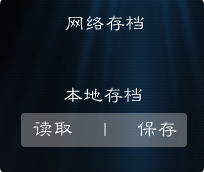
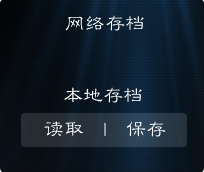
存档界面完成

Changed region(s): [[0.0882, 0.6395, 0.9412, 0.8721], [0.9706, 0.0, 1.0, 0.0291], [0.0, 0.0, 0.0294, 0.0291]]

diff --git a/Game/Data/Scripts/source/Scene_Map.rb b/Game/Data/Scripts/source/Scene_Map.rb
@@ -28,6 +28,8 @@ class Scene_Map < Scene_Base
     @menu_sprite_act.z = 1001
     @menu_calling = false
     @menu_called_inedx = 0
+    @now_set = [nil]*5
+    @menu_rem = [nil]*5
   end
   #--------------------------------------------------------------------------
   # ● 执行进入场景时的渐变
@@ -302,6 +304,11 @@ class Scene_Map < Scene_Base
   
   def call_save_scene
     create_menu(MENU_SAV)
+    if ($WebLogin_user rescue nil) == nil
+      @menu_sprite_sin.bitmap.blt(MENU_SAV_POS[0][0],MENU_SAV_POS[0][1],Bitmap.new(MENU_SAV_LOG),Rect.new(0,0,166,34))
+    else
+      @menu_sprite_sin.bitmap.blt(MENU_SAV_POS[0][0],MENU_SAV_POS[0][1],Bitmap.new(MENU_SAV_SL),Rect.new(0,0,166,34))
+    end
     @menu_called_inedx = 4
   end
   
@@ -346,16 +353,17 @@ class Scene_Map < Scene_Base
     when 3
       update_menu_voi
     when 4
+      update_menu_sav
     when 5
     end
   end
   
   def update_menu_gra
-    now_set = [$syseting[:ctrl_screen],$syseting[:show_maparea],$syseting[:show_animation],$syseting[:screen_size]]
-    if @menu_rem != now_set
-      @menu_rem = now_set.clone
+    @now_set[1] = [$syseting[:ctrl_screen],$syseting[:show_maparea],$syseting[:show_animation],$syseting[:screen_size]]
+    if @menu_rem[1] != @now_set[1]
+      @menu_rem[1] = @now_set[1].clone
       @menu_sprite_act.bitmap.clear
-      4.times{|i| @menu_sprite_act.bitmap.blt(*MENU_GRA_POS[i],Bitmap.new(MENU_SEL),RECT_SEL) if @menu_rem[i]}
+      4.times{|i| @menu_sprite_act.bitmap.blt(*MENU_GRA_POS[i],Bitmap.new(MENU_SEL),RECT_SEL) if @menu_rem[1][i]}
     end
     if Mouse.click?(1)
       tpos = [Mouse.pos[0]-@menu_sprite_act.x,Mouse.pos[1]-@menu_sprite_act.y]
@@ -377,11 +385,11 @@ class Scene_Map < Scene_Base
   end
   
   def update_menu_voi
-    now_set = [$syseting[:bgm_value],$syseting[:se_value],$syseting[:voi_value]]
-    if @menu_rem != now_set
-      @menu_rem = now_set.clone
+    @now_set[2] = [$syseting[:bgm_value],$syseting[:se_value],$syseting[:voi_value]]
+    if @menu_rem[2] != @now_set[2]
+      @menu_rem[2] = @now_set[2].clone
       @menu_sprite_act.bitmap.clear
-      4.times{|i| @menu_sprite_act.bitmap.draw_text(*MENU_VOI_POS[i],60,40,@menu_rem[i].to_s+"%",2) if @menu_rem[i]}
+      4.times{|i| @menu_sprite_act.bitmap.draw_text(*MENU_VOI_POS[i],60,40,@menu_rem[2][i].to_s+"%",2) if @menu_rem[2][i]}
     end
     ms = Mouse.scroll
     if ms!=0
@@ -399,6 +407,109 @@ class Scene_Map < Scene_Base
           when 2
             $syseting[:voi_value]+=5*(ms>0 ? 1: -1)
             $syseting[:voi_value]=[[100,$syseting[:voi_value]].min,0].max
+          end
+        end
+      end
+    end
+  end
+  
+  def update_menu_sav
+    tpos = [Mouse.pos[0]-@menu_sprite_act.x,Mouse.pos[1]-@menu_sprite_act.y]
+    if ($WebLogin_user rescue nil) == nil
+      @now_set[3] = [tpos.inrect?(MENU_SAV_POS[0]),tpos.inrect?(MENU_SAV_POS[3]),tpos.inrect?(MENU_SAV_POS[4])]
+      if @menu_rem[3] != @now_set[3]
+        if @menu_rem[3]&&@menu_rem[3].size == 4
+          @menu_sprite_sin.bitmap.dispose
+          @menu_sprite_sin.bitmap = Bitmap.new(MENU_SAV)
+          @menu_sprite_sin.bitmap.blt(MENU_SAV_POS[0][0],MENU_SAV_POS[0][1],Bitmap.new(MENU_SAV_LOG),Rect.new(0,0,166,34))
+        end
+        @menu_rem[3] = @now_set[3].clone
+        @menu_sprite_act.bitmap.clear
+        3.times do |i|
+          case i
+          when 0
+            @menu_sprite_act.bitmap.blt(MENU_SAV_POS[0][0],MENU_SAV_POS[0][1],Bitmap.new(MENU_SAV_SEL[0]),Rect.new(0,0,MENU_SAV_POS[0][2],MENU_SAV_POS[0][3])) if @menu_rem[3][i]
+          when 1
+            @menu_sprite_act.bitmap.blt(MENU_SAV_POS[3][0],MENU_SAV_POS[3][1],Bitmap.new(MENU_SAV_SEL[1]),Rect.new(0,0,MENU_SAV_POS[3][2],MENU_SAV_POS[3][3])) if @menu_rem[3][i]
+          when 2
+            @menu_sprite_act.bitmap.blt(MENU_SAV_POS[4][0],MENU_SAV_POS[4][1],Bitmap.new(MENU_SAV_SEL[2]),Rect.new(0,0,MENU_SAV_POS[4][2],MENU_SAV_POS[4][3])) if @menu_rem[3][i]
+          end
+        end
+      end
+      iindex = @menu_rem[3].index(true)
+      if Mouse.click?(1) && iindex
+        case iindex
+        when 0
+          SceneManager.call(Scene_Load)
+        when 1
+          if DataManager.load_game(0)
+            fadeout_all
+            $game_system.on_after_load
+            SceneManager.goto(Scene_Map)
+          else
+            @spriteset.show_tips("读取档案失败.")
+          end
+        when 2
+          if DataManager.save_game(0)
+            @spriteset.show_tips("存档成功.")
+          else
+            @spriteset.show_tips("存档失败.")
+          end
+        end
+      end
+    else
+      @now_set[3] = [tpos.inrect?(MENU_SAV_POS[1]),tpos.inrect?(MENU_SAV_POS[2]),tpos.inrect?(MENU_SAV_POS[3]),tpos.inrect?(MENU_SAV_POS[4])]
+      if @menu_rem[3] != @now_set[3]
+        if @menu_rem[3]&&@menu_rem[3].size == 3
+          @menu_sprite_sin.bitmap.dispose
+          @menu_sprite_sin.bitmap = Bitmap.new(MENU_SAV)
+          @menu_sprite_sin.bitmap.blt(MENU_SAV_POS[0][0],MENU_SAV_POS[0][1],Bitmap.new(MENU_SAV_SL),Rect.new(0,0,166,34))
+        end
+        @menu_rem[3] = @now_set[3].clone
+        @menu_sprite_act.bitmap.clear
+        4.times do |i|
+          case i
+          when 0
+            @menu_sprite_act.bitmap.blt(MENU_SAV_POS[1][0],MENU_SAV_POS[1][1],Bitmap.new(MENU_SAV_SEL[1]),Rect.new(0,0,MENU_SAV_POS[1][2],MENU_SAV_POS[1][3])) if @menu_rem[3][i]
+          when 1
+            @menu_sprite_act.bitmap.blt(MENU_SAV_POS[2][0],MENU_SAV_POS[2][1],Bitmap.new(MENU_SAV_SEL[2]),Rect.new(0,0,MENU_SAV_POS[2][2],MENU_SAV_POS[2][3])) if @menu_rem[3][i]
+          when 2
+            @menu_sprite_act.bitmap.blt(MENU_SAV_POS[3][0],MENU_SAV_POS[3][1],Bitmap.new(MENU_SAV_SEL[1]),Rect.new(0,0,MENU_SAV_POS[3][2],MENU_SAV_POS[3][3])) if @menu_rem[3][i]
+          when 3
+            @menu_sprite_act.bitmap.blt(MENU_SAV_POS[4][0],MENU_SAV_POS[4][1],Bitmap.new(MENU_SAV_SEL[2]),Rect.new(0,0,MENU_SAV_POS[4][2],MENU_SAV_POS[4][3])) if @menu_rem[3][i]
+          end
+        end
+      end
+      iindex = @menu_rem[3].index(true)
+      if Mouse.click?(1) && iindex
+        case iindex
+        when 0
+          if DataManager.load_web_game(0)
+            fadeout_all
+            $game_system.on_after_load
+            SceneManager.goto(Scene_Map)
+          else
+            @spriteset.show_tips("读取档案失败.")
+          end
+        when 1
+          if DataManager.save_web_game(0)
+            @spriteset.show_tips("存档成功.")
+          else
+            @spriteset.show_tips("存档失败.")
+          end
+        when 2
+          if DataManager.load_game(0)
+            fadeout_all
+            $game_system.on_after_load
+            SceneManager.goto(Scene_Map)
+          else
+            @spriteset.show_tips("读取档案失败.")
+          end
+        when 3
+          if DataManager.save_game(0)
+            @spriteset.show_tips("存档成功.")
+          else
+            @spriteset.show_tips("存档失败.")
           end
         end
       end
@@ -505,7 +616,6 @@ class Scene_Map < Scene_Base
       if CInput.trigger?($vkey[:X]) || (!$map_battle && Mouse.down?(2))
         @menu_calling =!@menu_calling
         if @menu_calling
-          @menu_rem = nil
           change_skill
         else
           call_ret_scene

diff --git a/Game/Data/Scripts/source/Skill_data.rb b/Game/Data/Scripts/source/Skill_data.rb
@@ -31,7 +31,7 @@
     @hp_damage = 0
     @sp_damage = 0
     @ap_damage = 0
-    @buff = [["Catch.new",100]]
+    @buff = [[Catch,100]]
     @debuff = []
     @descr = "将一个友方单位或是能力低于自己的敌人吸上半空.\n向指定的目标格抛出造成伤害.\n施法距离:1-6"
   end
@@ -158,7 +158,7 @@ class Relive < Skill
     @hp_damage = 60
     @sp_damage = 0
     @ap_damage = 0
-    @buff = [["Ctrled.new",100]]
+    @buff = [[Ctrled,100]]
     @debuff = []
     @descr = "消耗1点行动力和100点生命力.\n复活并操控一具尸体为你作战.\n死尸在持续时间内不会死亡.\n死尸所受的伤害由施法者承担.\n持续2回合.\n施法距离:1-4."
   end
@@ -550,7 +550,7 @@ class AutoBang < Skill
   
   def set_extra
     @spec_effect = "if @cur_actor.ap>=@cur_actor.get_ap_for_atk;
-                      i.event.move_backward if i.event.passable?(i.x,i.y,BACK_DIR[i.event.direction]);
+                      i.event.move_backward if i.event.passable?(i.x,i.y,10-i.event.direction);
                       if $random_center.rand(100)<20;
                         i.die;
                         @splink.show_text(\"Bingo!\",i.event,BINGO_COLOR,30);
@@ -560,7 +560,7 @@ class AutoBang < Skill
                       end;
                       @cur_actor.cost_ap_for(1);
                     else;
-                      @cur_actor.event.move_backward if @cur_actor.event.passable?(@cur_actor.x,@cur_actor.y,BACK_DIR[i.event.direction]);
+                      @cur_actor.event.move_backward if @cur_actor.event.passable?(@cur_actor.x,@cur_actor.y,10-i.event.direction);
                       a=@cur_actor.phy_damage(100);
                       @splink.show_text(a[1],@cur_actor.event,HP_COST_COLOR,20) if a[0];
                     end;"
@@ -619,12 +619,12 @@ class AutoT < Skill
   
   def set_extra
     @spec_effect = "if @cur_actor.ap>=@cur_actor.get_ap_for_atk;
-                      i.event.move_backward if i.event.passable?(i.x,i.y,BACK_DIR[i.event.direction]);
+                      i.event.move_backward if i.event.passable?(i.x,i.y,10-i.event.direction);
                       a=i.phy_damage(100);
                       @splink.show_text(a[1],i.event,HP_COST_COLOR,20) if a[0];
                       @cur_actor.cost_ap_for(1);
                     elsif i!=@cur_actor;
-                      @cur_actor.event.move_backward if @cur_actor.event.passable?(@cur_actor.x,@cur_actor.y,BACK_DIR[i.event.direction]);
+                      @cur_actor.event.move_backward if @cur_actor.event.passable?(@cur_actor.x,@cur_actor.y,10-i.event.direction);
                       a=@cur_actor.phy_damage(100);
                       @splink.show_text(a[1],@cur_actor.event,HP_COST_COLOR,20) if a[0];
                     end;"
@@ -683,12 +683,12 @@ class AutoBigBang < Skill
   
   def set_extra
     @spec_effect = "if @cur_actor.ap>=@cur_actor.get_ap_for_atk;
-                      i.event.move_backward if i.event.passable?(i.x,i.y,BACK_DIR[i.event.direction]);
+                      i.event.move_backward if i.event.passable?(i.x,i.y,10-i.event.direction);
                       a=i.phy_damage(100);
                       @splink.show_text(a[1],i.event,HP_COST_COLOR,20) if a[0];
                       @cur_actor.cost_ap_for(1);
                     elsif i!=@cur_actor;
-                      @cur_actor.event.move_backward if @cur_actor.event.passable?(@cur_actor.x,@cur_actor.y,BACK_DIR[i.event.direction]);
+                      @cur_actor.event.move_backward if @cur_actor.event.passable?(@cur_actor.x,@cur_actor.y,10-i.event.direction);
                       a=@cur_actor.phy_damage(100);
                       @splink.show_text(a[1],@cur_actor.event,HP_COST_COLOR,20) if a[0];
                     end;"

diff --git a/Game/Data/Scripts/source/Fuc.rb b/Game/Data/Scripts/source/Fuc.rb
@@ -1,11 +1,11 @@
 module Fuc
 
   DIR_LIST =          [[0,8,2],[4],[6]]# 方向表，方便写
-  BACK_DIR =          {2=>8,4=>6,6=>4,8=>2}
   SP_OPA =            [255,100,150,200,100] # 透明度表
   UI_SKILL_POS =      [ [51,5],[92,27],[92,74],[51,97],[10,74],[10,27] ]
   MENU_GRA_POS =      [ [157,51],[157,89],[157,127],[157,165] ]
   MENU_VOI_POS =      [ [134,35],[134,67],[134,99] ]
+  MENU_SAV_POS =      [ [21,40,166,34],[21,40,83,34],[105,40,82,34],[21,113,83,34],[105,113,82,34] ]
   MOV_AREA_C =        [Color.new(0,100,255,255),Color.new(0,150,255,255)]
   WAY_AREA_C =        [Color.new(0,180,100,255),Color.new(100,200,50,255)]
   EFFECT_AREA_C =     [Color.new(255,255,50,255),Color.new(200,200,0,200)]
@@ -34,6 +34,9 @@
   MENU_SAV = "Graphics/System/save_scene.png"
   MENU_MES = "Graphics/System/mesg_scene.png"
   MENU_SEL = "Graphics/System/seled.png"
+  MENU_SAV_SEL = ["Graphics/System/save_sel1.png","Graphics/System/save_sel2.png","Graphics/System/save_sel3.png"]
+  MENU_SAV_LOG = "Graphics/System/login.png"
+  MENU_SAV_SL = "Graphics/System/sl.png"
   RECT_SEL = Rect.new(0,0,26,26)
   FAILD_ATTACK_TEXT = 
   [ "Miss",

diff --git a/Game/Data/Scripts/source/Map_Battle.rb b/Game/Data/Scripts/source/Map_Battle.rb
@@ -874,7 +874,7 @@
             para[0].buff.each do |buff|
               if $random_center.rand(100) < buff[1]
                 @succ_count+=1
-                sm = instance_eval(buff[0]+"("+"@cur_actor"+")")
+                sm = buff[0].new(@cur_actor)
                 i.add_buff(sm)
                 @splink.show_text("+"+sm.name,i.event,SP_ADD_COLOR)
               end
@@ -988,7 +988,7 @@
             para[0].buff.each do |buff|
               if $random_center.rand(100) < buff[1]
                 @succ_count+=1
-                sm = instance_eval(buff[0]+"("+"@cur_actor"+")")
+                sm = buff[0].new(@cur_actor)
                 i.add_buff(sm)
                 @splink.show_text("+"+sm.name,i.event,SP_ADD_COLOR)
               end

diff --git a/Game/Data/Scripts/source/Plus.rb b/Game/Data/Scripts/source/Plus.rb
@@ -1,4 +1,5 @@
 class Array
+  
   def included?(arr)
     arr.each do |i|
       if self.include?(i)
@@ -7,16 +8,12 @@
     end
     return false
   end
-end
-=begin
-module Audio
-  class << Audio
-    
-    alias bgm_v bgm_play
-    def bgm_play(filename,value=100,pitch=100)
-      bgm_v(filename,value*$syseting[:bgm_value]/100,pitch)
+  
+  def inrect?(tar)
+    if self[0]>=tar[0]&&self[0]<=tar[0]+tar[2]&&self[1]>=tar[1]&&self[1]<=tar[1]+tar[3]
+      return true
     end
-
+    return false
   end
+  
 end
-=end

diff --git a/Game/Data/Scripts/source/DataManager.rb b/Game/Data/Scripts/source/DataManager.rb
@@ -132,7 +132,7 @@ module DataManager
   #     index : 文件索引
   #--------------------------------------------------------------------------
   def self.make_filename(index)
-    sprintf("Save%02d.rvdata2", index + 1)
+    sprintf("SaveData.orzfly", index + 1)
   end
   #--------------------------------------------------------------------------
   # ● 执行存档
